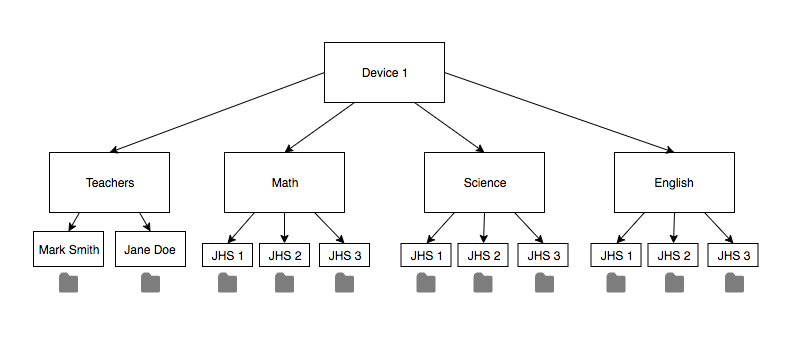
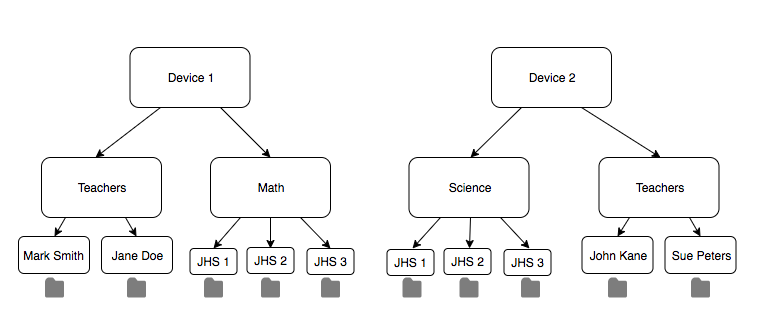
updated architecture diagrams

diff --git a/asanka-static-site/index.html b/asanka-static-site/index.html
@@ -11,7 +11,7 @@
     <script src="https://cdnjs.cloudflare.com/ajax/libs/popper.js/1.14.0/umd/popper.min.js" integrity="sha384-cs/chFZiN24E4KMATLdqdvsezGxaGsi4hLGOzlXwp5UZB1LY//20VyM2taTB4QvJ" crossorigin="anonymous"></script>
     <script src="https://stackpath.bootstrapcdn.com/bootstrap/4.1.0/js/bootstrap.min.js" integrity="sha384-uefMccjFJAIv6A+rW+L4AHf99KvxDjWSu1z9VI8SKNVmz4sk7buKt/6v9KI65qnm" crossorigin="anonymous"></script>
 </head>
-<body>
+<body class="p-5">
   <h1>Asanka</h1>
     <div class="header">
             
@@ -23,21 +23,21 @@
             </ol>
             <div class="carousel-inner">
               <div class="carousel-item active">
-                <img class="center-block" width="720" height="480" src="./images/classroom.jpg" alt="First slide">
+                <img class="d-block mx-auto" width="720" height="480" src="./images/classroom.jpg" alt="First slide">
                 <div class="carousel-caption d-none d-md-block">
                     <h5>Ghana's Asanka</h5>
                     <p>Asanka - Community Bowl in Ghana</p>
                 </div>
               </div>
               <div class="carousel-item ">
-                <img class="center-block" width="720" height="480" src="./images/techaide-convo.jpg" alt="Second slide">
+                <img class="d-block mx-auto" width="720" height="480" src="./images/techaide-convo.jpg" alt="Second slide">
                 <div class="carousel-caption d-none d-md-block">
                     <h5> The Power Of Asanka</h5>
                     <p>TechAide and Asanka Help Communitites Continue to Advance with Access to Information</p>
                 </div>  
               </div>
               <div class="carousel-item">
-                <img class="center-block" width="720" height="480" src="./images/using-asanka.jpg" alt="Third slide">
+                <img class="d-block mx-auto" width="720" height="480" src="./images/using-asanka.jpg" alt="Third slide">
                 <div class="carousel-caption d-none d-md-block">
                     <h5>Asanka In Use</h5>
                     <p>Across the Many Uses for Asanka, Education is their top priority</p>
@@ -133,7 +133,13 @@
 
         <h3>Our Project</h3>
         <p>In the initial version of Asanka, teachers and administrators are able to access files using one large shared space. While the first version of Asanka is functional and serves its purpose, TechAide wanted to improve the user interface to make using the device a better experience for teachers. One of the main issues with the first design of Asanka is that when there are many files stored on the device, it is difficult to find a specific file due to the lack of organization of content. Our solution for this problem is to organize the content on the device into folders by class subject and grade level. In addition, we have chosen to give each teacher their own folder for files specific to their class. The two main goals for our redesign were to make it easier for users to find content on Asanka and to create a more personalized experience for the teachers.</p>
-       
+
+        <img class="mr-3" src="./images/Old Asanka Architecture.png" alt="new CMS" width="25%" height="25%">
+
+        <img class="mr-3" src="./images/New-Asanka-Architecture.png" alt="new CMS" width="50%" height="50%">
+
+
+
         <h4>Problems with Asanka</h4>
         <div class="card-deck">
                 <div class="card border-danger">
@@ -158,6 +164,7 @@
               </div>
               <br></br>
               <img class="mr-3" src="images/placeholder.png" alt="Old CMS" width="50%" height="50%">
+
 
               <br></br>
               <h4>Our Solutions</h4>
@@ -185,7 +192,6 @@
         
                   <br></br>
 
-                  <img class="mr-3" src="./images/New-Asanka-Archtecture.png" alt="new CMS" width="50%" height="50%">
 
 
         
